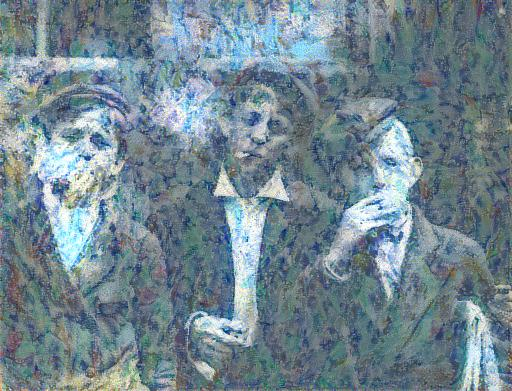
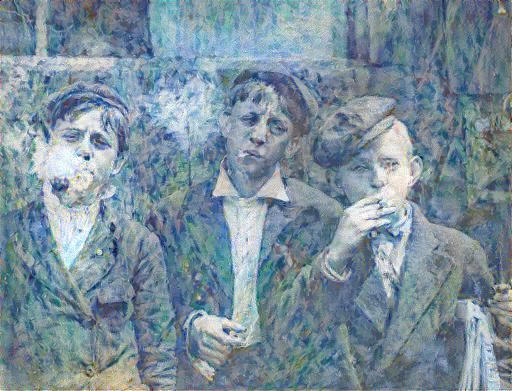
Updated example images and README.md.

diff --git a/neural-style-transfer.py b/neural-style-transfer.py
@@ -147,7 +147,7 @@ sess.run(model['input'].assign(style))
 jStyle = computeStyleCost(model, styleLayers)
 
 #Total Cost and Optimizer
-j = 10 * jContent + 1 * jStyle # (#) = alpha, (#) = beta
+j = 250 * jContent + 1 * jStyle # (#) = alpha, (#) = beta
 optimizer = tf.train.AdamOptimizer(2.0).minimize(j)
 
 def neuralStyleTransfer(sess, input, iterations = int(sys.argv[4])):

diff --git a/README.md b/README.md
@@ -33,31 +33,7 @@ Content: [Man in a Forest Landscape](https://images.metmuseum.org/CRDImages/ph/o
 
 Style: [Cypresses](https://images.metmuseum.org/CRDImages/ep/original/DP130999.jpg) (Vincent van Gogh, 1889)
 
-Iterations: 1000
-
-</br>
-
-Content | Style | Output
-------- | ----- | ------
-![Medinet Habu](/readme-files/medinet-habu.jpg) | ![Rochishin Chopping Off the Head of Nio](/readme-files/rochishin-chopping-off-the-head-of-nio.jpg) | ![Medinet Habu + Rochishin Chopping Off the Head of Nio](/readme-files/medinet-habu+rochishin-chopping-off-the-head-of-nio.jpg)
-
-Content: [Medinet Habu](https://images.metmuseum.org/CRDImages/ph/original/DT1163.jpg) (John Beasley Greene, 1854)
-
-Style: [Rochishin Chopping Off the Head of Nio](https://images.metmuseum.org/CRDImages/as/original/56_121_40_162330.jpg) (School of Katsushika Hokusai, 18th-19th century)
-
-Iterations: 1000
-
-</br>
-
-Content | Style | Output
-------- | ----- | ------
-![Sentinel Rock Yosemite](/readme-files/sentinel-rock-yosemite.jpg) | ![The Beeches](/readme-files/the-beeches.jpg) | ![Sentinel Rock Yosemite + The Beeches](/readme-files/sentinel-rock-yosemite+the-beeches.jpg)
-
-Content: [Sentinel Rock, Yosemite](https://images.metmuseum.org/CRDImages/ph/original/DP152226.jpg) (attributed to Carleton E. Watkins, ca. 1872, printed ca. 1876)
-
-Style: [The Beeches](https://images.metmuseum.org/CRDImages/ap/original/DT75.jpg) (Asher Brown Durand, 1845)
-
-Iterations: 1000
+Iterations: 5000
 
 </br>
 
@@ -69,4 +45,28 @@ Content: [11:00 A.M. Monday, May 9th, 1910. Newsies at Skeeter's Branch, Jeffers
 
 Style: [Fleur de Lis](https://images.metmuseum.org/CRDImages/ap/original/DP167061.jpg) (Robert Reid, ca. 1895-1900)
 
-Iterations: 1000
+Iterations: 5000
+
+</br>
+
+Content | Style | Output
+------- | ----- | ------
+![Medinet Habu](/readme-files/medinet-habu.jpg) | ![Rochishin Chopping Off the Head of Nio](/readme-files/rochishin-chopping-off-the-head-of-nio.jpg) | ![Medinet Habu + Rochishin Chopping Off the Head of Nio](/readme-files/medinet-habu+rochishin-chopping-off-the-head-of-nio.jpg)
+
+Content: [Medinet Habu](https://images.metmuseum.org/CRDImages/ph/original/DT1163.jpg) (John Beasley Greene, 1854)
+
+Style: [Rochishin Chopping Off the Head of Nio](https://images.metmuseum.org/CRDImages/as/original/56_121_40_162330.jpg) (School of Katsushika Hokusai, 18th-19th century)
+
+Iterations: 5000
+
+</br>
+
+Content | Style | Output
+------- | ----- | ------
+![Sentinel Rock Yosemite](/readme-files/sentinel-rock-yosemite.jpg) | ![The Beeches](/readme-files/the-beeches.jpg) | ![Sentinel Rock Yosemite + The Beeches](/readme-files/sentinel-rock-yosemite+the-beeches.jpg)
+
+Content: [Sentinel Rock, Yosemite](https://images.metmuseum.org/CRDImages/ph/original/DP152226.jpg) (attributed to Carleton E. Watkins, ca. 1872, printed ca. 1876)
+
+Style: [The Beeches](https://images.metmuseum.org/CRDImages/ap/original/DT75.jpg) (Asher Brown Durand, 1845)
+
+Iterations: 5000
